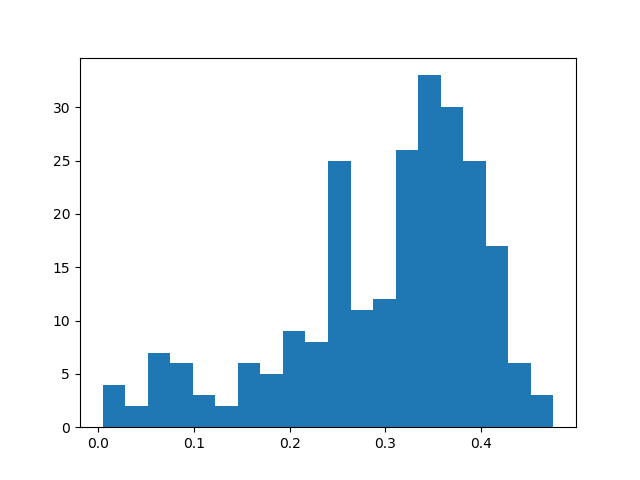
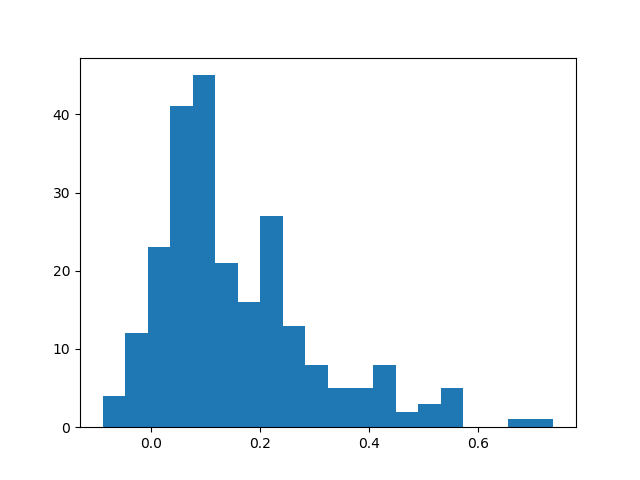
Fixed cosine | Added utils and zScoring

diff --git a/visualize_distribution.py b/visualize_distribution.py
@@ -2,6 +2,7 @@ from annoy import AnnoyIndex
 import matplotlib.pyplot as plt
 import numpy as np
 import random
+import utils
 import json
 import time
 import sys
@@ -116,74 +117,58 @@ model = AnnoyIndex(VSM_DIMS)
 model.load(f"{CACHE_PATH}{ANN_TREE}")
 debug_time(f"Annoying Tree Loaded from {ANN_TREE}", load_t, time.time())
 
-def read_wordpairs(fname):
-	word_pairs = []
-	word_t = time.time()
-	with open(fname, 'r') as fin:
-	    for line in fin:
-	        line_data = line.strip().split(',')
-	        prime = line_data[0].lower()
-	        target = line_data[1].lower()
-	        word_pairs.append((prime, target))
-	debug_time("Loading word list...", word_t, time.time())
-	return word_pairs
-
 def get_nelson_dist():
-	data = []
-	print("Computing O(N^2) for {} nodes".format(len(word_list)))
-	with open("cosine.csv", 'w+') as fout:
-		for i in range(len(word_list)):
-			for j in range(i, len(word_list)):
-				w1 = word_list[i]
-				w2 = word_list[j]
-				if (w1 != w2 and w1 in word_dic and w2 in word_dic):
-					# Add cosine to data
-					raw_dist = model.get_distance(word_dic[w1], word_dic[w2]) #IMPT!!!!
-					dist = 1-(raw_dist**2)/2
-					if (abs(dist) > 0.70):
-						fout.write("{},{},{}\n".format(w1, w2, dist))
-					data.append(dist)
-	return data
+    data = []
+    print("Computing O(N^2) for {} nodes".format(len(word_list)))
+    with open("cosine.csv", 'w+') as fout:
+        for i in range(len(word_list)):
+            for j in range(i, len(word_list)):
+                w1 = word_list[i]
+                w2 = word_list[j]
+                if (w1 != w2 and w1 in word_dic and w2 in word_dic):
+                    # Add cosine to data
+                    dist = utils.eu_to_cosine(model.get_distance(word_dic[w1], word_dic[w2]))
+                    data.append(dist)
+    return data
 
 def get_nelson_rand_dist(t=0.4):
-	data = []
-	w = None
-	while (w not in word_dic):
-		w = random.choice(word_list)
-	print("Computing O(N) for {} nodes | From: {}".format(len(word_list), w))
-	for ow in word_list:
-		if (ow != w and ow in word_dic):
-			dist = abs(1-model.get_distance(word_dic[ow], word_dic[w]))
-			data.append(dist)
-			if (dist < t):
-				print(ow)
-	return data
+    data = []
+    w = None
+    while (w not in word_dic):
+        w = random.choice(word_list)
+    print("Computing O(N) for {} nodes | From: {}".format(len(word_list), w))
+    for ow in word_list:
+        if (ow != w and ow in word_dic):
+            dist = utils.eu_to_cosine(model.get_distance(word_dic[ow], word_dic[w]))
+            data.append(dist)
+    return data
 
 def get_demasking_dist():
-	data = []
-	word_pairs = read_wordpairs(input("Word pairs: "))
-	print("Computing O(N) for {} word pairs".format(len(word_pairs)))
-	dup_filter = set()
-	for w1, w2 in word_pairs:
-		if (w1 in word_dic and w2 in word_dic):
-			pair = (word_dic[w1], word_dic[w2])
-			rev_pair = (pair[1], pair[0])
-			if (rev_pair in dup_filter or pair in dup_filter):
-				continue
-			dup_filter.add(pair)
-	for i1, i2 in dup_filter:
-		data.append(abs(1-model.get_distance(i1, i2)))
-	return data
+    data = []
+    word_pairs = utils.read_wordpairs(input("Word pairs: "))
+    print("Computing O(N) for {} word pairs".format(len(word_pairs)))
+    dup_filter = set()
+    for w1, w2 in word_pairs:
+        if (w1 in word_dic and w2 in word_dic):
+            pair = (word_dic[w1], word_dic[w2])
+            rev_pair = (pair[1], pair[0])
+            if (rev_pair in dup_filter or pair in dup_filter):
+                continue
+            dup_filter.add(pair)
+    for i1, i2 in dup_filter:
+        dist = utils.eu_to_cosine(model.get_distance(i1, i2))
+        data.append(dist)
+    return data
 
 def log_data(data):
-	fname = input("Write log: ")
-	with open(fname, 'w+') as fout:
-		json.dump(data, fout)
+    fname = input("Write log: ")
+    with open(fname, 'w+') as fout:
+        json.dump(data, fout)
 
 # Generate data to plot
-data = get_nelson_dist()
+# data = get_nelson_dist()
 # data = get_demasking_dist()
-# data = get_nelson_rand_dist()
+data = get_nelson_rand_dist()
 print("Generated {} pairs".format(len(data)))
 #log_data(data)
 

diff --git a/utils/data_utils.py b/utils/data_utils.py
@@ -1,0 +1,80 @@
+import sys
+import time
+
+###################################
+# Data Wrangling Helper functions #
+###################################
+def read_wordpairs(fname, delim=','):
+    word_pairs = []
+    i = 0
+    with open(fname, 'r') as fin:
+        for line in fin:
+            i += 1
+            line_data = line.strip().split(delim)
+            if (len(line_data) < 2):
+                print("Insufficient Items in line {} (Expected 2)".format(i), file=sys.stderr)
+                return word_pairs
+            prime = line_data[0].lower()
+            target = line_data[1].lower()
+            word_pairs.append((prime, target))
+    return word_pairs
+
+def load_data(fname, delim=',', expt=1, d_filter=None):
+    if (d_filter is None):
+        d_filter = [None for i in range(expt)]
+    data = []
+    i = 0
+    with open(fname, 'r') as fin:
+        for line in fin:
+            i += 1
+            line_data = line.strip().split(delim)
+            if (len(line_data) < expt):
+                print("Insufficient Items in line {} (Expected {})".format(i, expt), file=sys.stderr)
+                return data
+            try:
+                data.append([d_filter[i](d) if d_filter[i] is not None else d for i, d in enumerate(line_data[:expt])])
+            except Exception as e:
+                print(e)
+                print(line_data)
+    return data
+
+def write_data(fname, data, delim=','):
+    with open(fname, 'w+') as fout:
+        for d in data:
+            fout.write(delim.join([str(di) for di in d]))
+            fout.write("\n")
+
+def join_data(fname, key=2, delim=None, expt=None, d_filter=None):
+    if (delim is None):
+        delim = [',' for i in range(len(fname))]
+    if (expt is None):
+        expt = [1 for i in range(len(fname))]
+    if (d_filter is None):
+        d_filter = [None for i in range(len(fname))]
+    tot_k_set = set()
+    tot_data = dict()
+    for i, f in enumerate(fname):
+        f_data = load_data(f, delim=delim[i], expt=expt[i], d_filter=d_filter[i])
+        f_data_len = 0
+        f_keyed_data = dict()
+        for d in f_data:
+            d_key = tuple(d[:key])
+            tot_k_set.add(d_key)
+            if (d_key not in f_keyed_data):
+                f_keyed_data[d_key] = []
+            f_keyed_data[d_key] = d[key:]
+            f_data_len = max(f_data_len, len(f_keyed_data[d_key]))
+        f_keyed_data['len'] = f_data_len
+        print("len {}".format(f_keyed_data['len']))
+        tot_data[f] = f_keyed_data
+    out_data = []
+    for k in tot_k_set:
+        k_data = list(k)
+        for f in fname:
+            if (k in tot_data[f]):
+                k_data.extend(tot_data[f][k])
+            else:
+                k_data.extend(["N/A" for i in range(tot_data[f]['len'])])
+        out_data.append(k_data)
+        print(k_data)
+    return sorted(out_data)

diff --git a/zScore_filter.py b/zScore_filter.py
@@ -1,0 +1,68 @@
+import utils
+import sys
+import time
+import math
+
+EPSILON = 0.0000000001
+
+def zScore(data, sd_filter=None):
+    f_data = [d for d in data if d is not None]
+    d_len = len(f_data)
+    d_sum = sum(f_data)
+    mean = d_sum/float(d_len)
+    std = math.sqrt(sum([d**2 for d in data if d is not None])/float(d_len) - mean**2)
+    ret_data = [(d-mean)/std if d is not None else None for d in data]
+    assert(abs(sum([d for d in ret_data if d is not None])/float(d_len)) < EPSILON)
+    if (sd_filter is not None):
+        for i in range(len(ret_data)):
+            if (ret_data[i] < -sd_filter or ret_data[i] > sd_filter):
+                ret_data[i] = None
+    return ret_data
+
+def filter_outliers(data, k=0, bounds=[-1, 1]):
+    ret_d = []
+    for d in data:
+        if (d[k] > bounds[0] and d[k] < bounds[1]):
+            ret_d.append(d)
+    return ret_d
+
+def individual_RT_zScore():
+    data = utils.load_data(input("Raw RT file: "), expt=4, d_filter=[int, utils.sanitize_lower, utils.sanitize_lower, int])
+    data = filter_outliers(data, k=3, bounds=[700, 5000])
+    subject_data = dict()
+    for d in data:
+        if (d[0] not in subject_data):
+            subject_data[d[0]] = {'rt': [], 'raw': []}
+        subject_data[d[0]]['rt'].append(d[3])
+        subject_data[d[0]]['raw'].append(d)
+    for si in subject_data.keys():
+        subject_data[si]['rt'] = zScore(subject_data[si]['rt'], sd_filter=3)
+        subject_data[si]['rt'] = zScore(subject_data[si]['rt'])
+    # Reconstruct raw data
+    w_raw = []
+    si_li = sorted(list(subject_data.keys()))
+    for si in si_li:
+        for i, d in enumerate(subject_data[si]['raw']):
+            w_raw.append([d_ if d_ is not None else "N/A" for d_ in d + [subject_data[si]['rt'][i]]])
+    utils.write_data(input("Output File: "), w_raw)
+
+def item_level_mean():
+    data = utils.load_data(input("RT Pairs zScored: "), expt=3, d_filter=[utils.sanitize_lower, utils.sanitize_lower, float])
+    wp_means = dict()
+    for d in data:
+        wp_key = tuple(sorted(d[:2]))
+        if (wp_key not in wp_means):
+            wp_means[wp_key] = []
+        wp_means[wp_key].append(d[2])
+    for wp_key in wp_means.keys():
+        wp_means[wp_key] = sum(wp_means[wp_key])/float(len(wp_means[wp_key]))
+    out_data = []
+    wp_li = sorted(list(wp_means.keys()))
+    for k in wp_li:
+        out_data.append([k[0], k[1], wp_means[k]])
+        out_data.append([k[1], k[0], wp_means[k]])
+    utils.write_data(input("Output File: "), sorted(out_data))
+
+if (__name__ == "__main__"):
+    utils.write_data(input("Output File: "), utils.join_data([input("file 1: "), input("file 2: ")], expt=[5, 3], 
+        d_filter=[[utils.sanitize_lower, utils.sanitize_lower, float, float, float], [utils.sanitize_lower, utils.sanitize_lower, float]]))

diff --git a/generate_graph.py b/generate_graph.py
@@ -146,15 +146,17 @@ def cosine_filter_wrapper(source, args):
     return cosine_filter(source, unwrapped_args['min_edges'], unwrapped_args['cutoff'], unwrapped_args['k'])
 
 def cosine_filter(source, min_edges=1, cutoff=0.1, k=10):
-    li = sorted([(abs(1-model.get_distance(source, t)), t) for t in model.get_nns_by_item(source, k)], key=lambda x: x[0])[:-1]
+    li = sorted([(utils.eu_to_cosine(model.get_distance(source, t)), t) for t in model.get_nns_by_item(source, k)], key=lambda x: x[0])[:-1]
     # print("{}\nlargest_cosine: {}".format(li, li[-1][0]))
     while (li[-1][0] < cutoff):
         k *= 2
-        li = sorted([(abs(1-model.get_distance(source, t)), t) for t in model.get_nns_by_item(source, k)], key=lambda x: x[0])[:-1]
+        li = sorted([(utils.eu_to_cosine(model.get_distance(source, t)), t) for t in model.get_nns_by_item(source, k)], key=lambda x: x[0])[:-1]
     # print("{}: [{}]".format(source, len(li)), file=sys.stderr)
     ret_nodes = [(t, v) for v, t in li[:min_edges]]
     for value, target in li[min_edges:]:
         if (value > cutoff):
+            if (len(ret_nodes) == min_edges and ret_nodes[0][1] > cutoff):
+                print("{},{}".format(source, ",".join(["{},{}".format(r[0], r[1]) for r in ret_nodes])))
             return ret_nodes
         ret_nodes.append((target, value))
     return ret_nodes

diff --git a/utils/helper.py b/utils/helper.py
@@ -1,0 +1,11 @@
+#################################
+# COSINE From Euclidean L1-Norm #
+#################################
+def eu_to_cosine(eu):
+    return 1-(eu**2)/2
+
+#############################
+# Wrap to-lower as function #
+#############################
+def sanitize_lower(raw):
+    return raw.lower()

diff --git a/utils/__init__.py b/utils/__init__.py
@@ -1,1 +1,3 @@
 from .graph_utils import *
+from .helper import *
+from .data_utils import *
